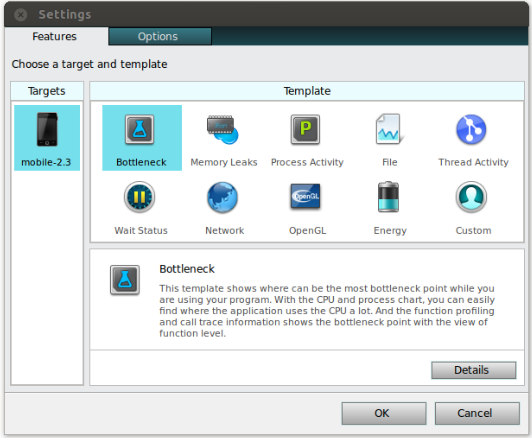
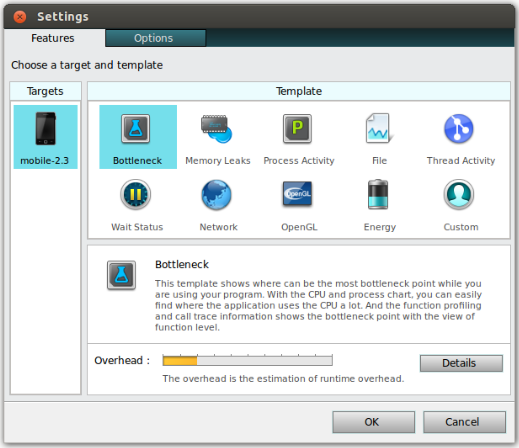
[Devtools] update documents of dynamic analyzer 1. add startup view 2. change setting dialog image file

Changed region(s): [[0.0, 0.0, 1.0, 1.0], [0.6166, 0.9201, 0.6474, 0.9498]]

diff --git a/org.tizen.devtools/html/native_tools/da_views_n.htm b/org.tizen.devtools/html/native_tools/da_views_n.htm
@@ -26,13 +26,14 @@
 		<ul class="toc">
 			<li><a href="#callstack">Callstack</a></li>
 			<li><a href="#snapshot">Snapshot</a></li>
+			<li><a href="#startup">Startup</a></li>
 		</ul>
 	</div></div>
 </div>	
 
 <div id="container"><div id="contents"><div class="content">
   <h1>Other Views</h1> 
-  <p>The dynamic analyzer provides the <strong>Callstack</strong> and <strong>Snapshot</strong> views.</p>
+  <p>The dynamic analyzer provides the <strong>Callstack</strong>, <strong>Snapshot</strong>, <strong>Startup</strong> views.</p>
 
 <h2 name="callstack" id="callstack">Callstack</h2> 
   <p>The <strong>Callstack</strong> view shows the callstack of the selected API or item.</p> 
@@ -56,6 +57,24 @@
    <li>CPU usage <p>The bar chart shows the CPU use percentage of the selected point. The chart shows the usage of up to 4 CPUs.</p></li> 
    <li>Process size <p>The circular chart shows the process memory size of the selected point.</p></li> 
   </ol>   
+  
+<h2 name="startup" id="startup">Startup</h2> 
+  <p>The <strong>Startup</strong> view shows the startup information of the application.</p> 
+  <p class="figure">Figure: Startup view</p> 
+  <p align="center"><img alt="Snapshot view" src="../images/startup_view.png" /></p>
+  <p>The <strong>Startup</strong>  view contains the following components:</p>
+  <ul> 
+   <li><strong>PID</strong> (integer) is the process ID.</li> 
+   <li><strong>Stage</strong></li> 
+   <ul> 
+      	<li>library mapping : an linking phase that the linker maps library dependencies of the application.</li> 
+   		<li>main : an execution phase from the beginning to <span style="font-family: Courier New,Courier,monospace">ui_app_main()</span> in <span style="font-family: Courier New,Courier,monospace">main().</span></li> 
+   		<li>create : an execution phase of <span style="font-family: Courier New,Courier,monospace">app_create_cb()</span> in <span style="font-family: Courier New,Courier,monospace">ui_app_lifecycle_callback_s</span> struct (This callback function is executed at the start of the application).</li> 
+   		<li>service : an execution phase of <span style="font-family: Courier New,Courier,monospace">app_control_cb()</span> in <span style="font-family: Courier New,Courier,monospace">ui_app_lifecycle_callback_s</span> struct (This callback function is executed when another application sends the launch request to the application).</li> 
+   </ul> 
+   <li><strong>Start Time</strong> is the start time of the stage.</li> 
+   <li><strong>End Time</strong> is the end time of the stage.</li> 
+  </ul> 
   
     
 <script type="text/javascript" src="../scripts/jquery.zclip.min.js"></script>

diff --git a/org.tizen.devtools/html/native_tools/da_overview_n.htm b/org.tizen.devtools/html/native_tools/da_overview_n.htm
@@ -42,6 +42,8 @@
 	<p>The <strong>Snapshot</strong> view shows the current screen capture and CPU usage, process usage, and available memory.</p></li>
 	<li><a href="da_views_n.htm#callstack">Callstack</a>
 	<p>The <strong>Callstack</strong> view shows the callstack of the selected function in the Call Trace.</p></li>
+	<li><a href="da_views_n.htm#startup">Startup</a>
+	<p>The <strong>Startup</strong> view shows the startup information of the application.</p></li>
 	<li><a href="#settings">Settings</a>
 	<p>The <strong>Settings</strong> button shows the setting dialog box that you can set the analysis features and other options.</p></li>
   </ol>
@@ -88,7 +90,8 @@
 		<li><strong>OpenGL</strong>: This template shows detailed information of the openGL layer.</li>
 		<li><strong>Energy</strong>: This template informs you of power consumption of target device.</li>
 		<li><strong>Custom</strong>: This template can be configured by selecting the desired features. If you change a feature in another template, the change effects the custom template.</li>
-	 </ul>	 
+	 </ul>	 	  
+	 <p>The overall overhead is an accumulation of each selected feature's overhead. Using feature that has a high overhead like OpenGL ES analysis may reduce a processing speed of the application. </p> </br>
 	 
 	 <p>When you click the <strong>Details</strong> button in the Features tab, the <strong>Feature details</strong> dialog appears on the screen.</p>
 	 <p class="figure">Figure: Feature details</p> 
@@ -106,8 +109,7 @@
 		<li><strong>OpenGL&reg; ES analysis</strong>: Displays information about the OpenGL&reg; layer.</li>
 		
 		<li><strong>UI Event</strong>: Displays UI events that occur on the device.</li>
-	 </ul></li>
-	 
+	 </ul></li>	 
     <li><strong>Options</strong> 
 	<p>The configuration settings define the dynamic analyzer configuration.</p>
 	 <p class="figure">Figure: Options tab</p> 
